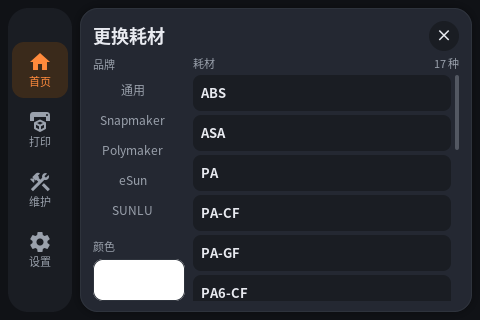
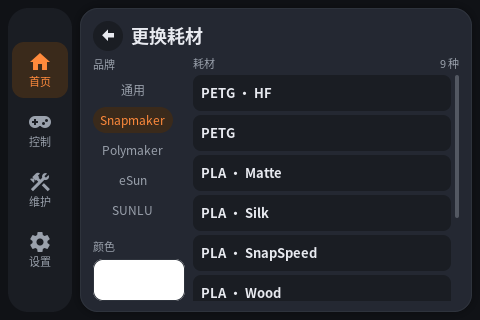
浮层关闭改成左上角返回箭头
- 喷嘴详情、耗材选择、调温、数字键盘、喷嘴参数、颜色、网络、Wi-Fi 密码、打印控制
  全部把右上角 X 换成左上角左箭头
- 返回按钮和标题同一行，保持原有点击区域
- 版本 1.6.4

diff --git a/src/ui.cpp b/src/ui.cpp
@@ -763,7 +763,7 @@ void temp_apply(int temp) {
 
 // 前置声明：这两个辅助函数在下面实现
 lv_obj_t* mk_overlay(lv_obj_t* screen);
-lv_obj_t* mk_close_button(lv_obj_t* parent, lv_event_cb_t cb);
+lv_obj_t* mk_back_button(lv_obj_t* parent, lv_event_cb_t cb);
 
 // 自定义快捷温度：所有喷嘴共用，持久化到工作目录下的 skreeu1_temps.cfg
 int g_presets[6] = {180, 200, 220, 240, 260, 280};
@@ -1211,10 +1211,9 @@ void build_temp_page(lv_obj_t* screen) {
     lv_obj_set_flex_flow(hl, LV_FLEX_FLOW_ROW);
     lv_obj_set_flex_align(hl, LV_FLEX_ALIGN_START, LV_FLEX_ALIGN_CENTER, LV_FLEX_ALIGN_CENTER);
     lv_obj_set_style_pad_column(hl, 8, 0);
+    mk_back_button(hl, close_temp_page_cb);
     R.tp_title = mk_label(hl, "T1 温度", 18, true, theme::TEXT);
-    mk_label(hl, "长按可编辑", 10, false, theme::MUTED);
-
-    mk_close_button(head, close_temp_page_cb);
+    mk_label(hl, "长按", 10, false, theme::MUTED);
 
     lv_obj_t* body = mk_obj(pg);
     lv_obj_set_size(body, LV_PCT(100), 148);
@@ -1325,10 +1324,11 @@ void build_keypad(lv_obj_t* screen) {
     lv_obj_t* head = mk_obj(kp);
     lv_obj_set_size(head, LV_PCT(100), 28);
     lv_obj_set_flex_flow(head, LV_FLEX_FLOW_ROW);
-    lv_obj_set_flex_align(head, LV_FLEX_ALIGN_SPACE_BETWEEN, LV_FLEX_ALIGN_CENTER,
+    lv_obj_set_flex_align(head, LV_FLEX_ALIGN_START, LV_FLEX_ALIGN_CENTER,
                           LV_FLEX_ALIGN_CENTER);
+    lv_obj_set_style_pad_column(head, 8, 0);
+    mk_back_button(head, keypad_close_cb);
     R.keypad_title = mk_label(head, "设置喷嘴温度", 18, true, theme::TEXT);
-    mk_close_button(head, keypad_close_cb);
 
     lv_obj_t* valrow = mk_obj(kp);
     lv_obj_set_size(valrow, LV_PCT(100), 40);
@@ -1442,10 +1442,11 @@ void build_nozzle_page(lv_obj_t* screen) {
     lv_obj_t* head = mk_obj(pg);
     lv_obj_set_size(head, LV_PCT(100), 26);
     lv_obj_set_flex_flow(head, LV_FLEX_FLOW_ROW);
-    lv_obj_set_flex_align(head, LV_FLEX_ALIGN_SPACE_BETWEEN, LV_FLEX_ALIGN_CENTER,
+    lv_obj_set_flex_align(head, LV_FLEX_ALIGN_START, LV_FLEX_ALIGN_CENTER,
                           LV_FLEX_ALIGN_CENTER);
+    lv_obj_set_style_pad_column(head, 8, 0);
+    mk_back_button(head, close_nozzle_cb);
     R.nz_title = mk_label(head, "T1 喷嘴", 18, true, theme::TEXT);
-    mk_close_button(head, close_nozzle_cb);
 
     // 直径
     mk_label(pg, "直径", 11, false, theme::MUTED);
@@ -1707,10 +1708,11 @@ void build_color_page(lv_obj_t* screen) {
     lv_obj_t* head = mk_obj(pg);
     lv_obj_set_size(head, LV_PCT(100), 26);
     lv_obj_set_flex_flow(head, LV_FLEX_FLOW_ROW);
-    lv_obj_set_flex_align(head, LV_FLEX_ALIGN_SPACE_BETWEEN, LV_FLEX_ALIGN_CENTER,
+    lv_obj_set_flex_align(head, LV_FLEX_ALIGN_START, LV_FLEX_ALIGN_CENTER,
                           LV_FLEX_ALIGN_CENTER);
+    lv_obj_set_style_pad_column(head, 8, 0);
+    mk_back_button(head, close_color_cb);
     mk_label(head, "选择颜色", 18, true, theme::TEXT);
-    mk_close_button(head, close_color_cb);
 
     lv_obj_t* grid = mk_obj(pg);
     lv_obj_set_size(grid, LV_PCT(100), 150);
@@ -1761,7 +1763,7 @@ lv_obj_t* mk_overlay(lv_obj_t* screen) {
     return o;
 }
 
-lv_obj_t* mk_close_button(lv_obj_t* parent, lv_event_cb_t cb) {
+lv_obj_t* mk_back_button(lv_obj_t* parent, lv_event_cb_t cb) {
     lv_obj_t* b = lv_button_create(parent);
     lv_obj_set_size(b, 30, 30);
     lv_obj_set_style_radius(b, 999, 0);
@@ -1770,7 +1772,7 @@ lv_obj_t* mk_close_button(lv_obj_t* parent, lv_event_cb_t cb) {
     lv_obj_set_style_border_width(b, 0, 0);
     lv_obj_set_style_shadow_width(b, 0, 0);
     lv_obj_set_style_pad_all(b, 0, 0);
-    lv_obj_t* ic = mk_icon(b, IC_CLOSE, 18, theme::TEXT);
+    lv_obj_t* ic = mk_icon(b, IC_ARROW_LEFT, 18, theme::TEXT);
     lv_obj_center(ic);
     lv_obj_add_event_cb(b, cb, LV_EVENT_CLICKED, nullptr);
     return b;
@@ -1791,6 +1793,7 @@ void build_tool_sheet(lv_obj_t* screen) {
     lv_obj_set_flex_flow(hl, LV_FLEX_FLOW_ROW);
     lv_obj_set_flex_align(hl, LV_FLEX_ALIGN_START, LV_FLEX_ALIGN_CENTER, LV_FLEX_ALIGN_CENTER);
     lv_obj_set_style_pad_column(hl, 8, 0);
+    mk_back_button(hl, close_sheet_cb);
     R.sheet_title = mk_label(hl, "T1 喷嘴", 20, true, theme::TEXT);
 
     lv_obj_t* hr = mk_obj(head);
@@ -1812,7 +1815,6 @@ void build_tool_sheet(lv_obj_t* screen) {
     mk_icon(R.sheet_nfc, IC_NFC, 13, theme::PRIMARY);
     mk_label(R.sheet_nfc, "NFC", 11, true, theme::PRIMARY);
     lv_obj_add_flag(R.sheet_nfc, LV_OBJ_FLAG_HIDDEN);
-    mk_close_button(hr, close_sheet_cb);
 
     // 主体：左耗材 / 右温度
     lv_obj_t* body = mk_obj(sh);
@@ -1957,10 +1959,11 @@ void build_picker(lv_obj_t* screen) {
     lv_obj_t* head = mk_obj(pk);
     lv_obj_set_size(head, LV_PCT(100), 30);
     lv_obj_set_flex_flow(head, LV_FLEX_FLOW_ROW);
-    lv_obj_set_flex_align(head, LV_FLEX_ALIGN_SPACE_BETWEEN, LV_FLEX_ALIGN_CENTER,
+    lv_obj_set_flex_align(head, LV_FLEX_ALIGN_START, LV_FLEX_ALIGN_CENTER,
                           LV_FLEX_ALIGN_CENTER);
+    lv_obj_set_style_pad_column(head, 8, 0);
+    mk_back_button(head, picker_back_cb);
     R.picker_title = mk_label(head, "更换耗材", 18, true, theme::TEXT);
-    mk_close_button(head, picker_back_cb);
 
     lv_obj_t* body = mk_obj(pk);
     lv_obj_set_size(body, LV_PCT(100), 244);
@@ -2336,12 +2339,13 @@ void build_print_sheet(lv_obj_t* screen) {
     lv_obj_t* head = mk_obj(sh);
     lv_obj_set_size(head, LV_PCT(100), 30);
     lv_obj_set_flex_flow(head, LV_FLEX_FLOW_ROW);
-    lv_obj_set_flex_align(head, LV_FLEX_ALIGN_SPACE_BETWEEN, LV_FLEX_ALIGN_CENTER,
+    lv_obj_set_flex_align(head, LV_FLEX_ALIGN_START, LV_FLEX_ALIGN_CENTER,
                           LV_FLEX_ALIGN_CENTER);
-    mk_label(head, "打印控制", 20, true, theme::TEXT);
-    mk_close_button(head, [](lv_event_t*) {
+    lv_obj_set_style_pad_column(head, 8, 0);
+    mk_back_button(head, [](lv_event_t*) {
         if (R.print_sheet) lv_obj_add_flag(R.print_sheet, LV_OBJ_FLAG_HIDDEN);
     });
+    mk_label(head, "打印控制", 20, true, theme::TEXT);
 
     lv_obj_t* body = mk_obj(sh);
     lv_obj_set_width(body, LV_PCT(100));
@@ -2989,7 +2993,7 @@ void build_settings(lv_obj_t* p) {
     lv_obj_align(R.dev_nozzle, LV_ALIGN_TOP_LEFT, 0, 46);
     R.gui_line = mk_label(c2, "原厂 GUI 偏好 · 自动映射 —", 11, false, theme::MUTED);
     lv_obj_align(R.gui_line, LV_ALIGN_TOP_LEFT, 0, 68);
-    lv_obj_t* ver = mk_label(c2, "skreeu1 1.6.3 · LVGL + FreeType · 480×320", 11, false, 0x5A616B);
+    lv_obj_t* ver = mk_label(c2, "skreeu1 1.6.4 · LVGL + FreeType · 480×320", 11, false, 0x5A616B);
     lv_obj_align(ver, LV_ALIGN_BOTTOM_LEFT, 0, 0);
 
     // 打印偏好（Klipper print_task_config）
@@ -3303,8 +3307,8 @@ void build_net_page(lv_obj_t* screen) {
     lv_obj_set_flex_flow(hl, LV_FLEX_FLOW_ROW);
     lv_obj_set_flex_align(hl, LV_FLEX_ALIGN_START, LV_FLEX_ALIGN_CENTER, LV_FLEX_ALIGN_CENTER);
     lv_obj_set_style_pad_column(hl, 8, 0);
+    mk_back_button(hl, net_close_cb);
     mk_label(hl, "网络", 20, true, theme::TEXT);
-    mk_close_button(head, net_close_cb);
 
     lv_obj_t* sc = mk_card(pg, theme::SURFACE);
     lv_obj_set_size(sc, LV_PCT(100), 58);
@@ -3341,10 +3345,11 @@ void build_net_page(lv_obj_t* screen) {
     lv_obj_t* ph = mk_obj(pw);
     lv_obj_set_size(ph, LV_PCT(100), 28);
     lv_obj_set_flex_flow(ph, LV_FLEX_FLOW_ROW);
-    lv_obj_set_flex_align(ph, LV_FLEX_ALIGN_SPACE_BETWEEN, LV_FLEX_ALIGN_CENTER,
+    lv_obj_set_flex_align(ph, LV_FLEX_ALIGN_START, LV_FLEX_ALIGN_CENTER,
                           LV_FLEX_ALIGN_CENTER);
+    lv_obj_set_style_pad_column(ph, 8, 0);
+    mk_back_button(ph, net_pw_close_cb);
     R.net_pw_title = mk_label(ph, "Wi-Fi 密码", 17, true, theme::TEXT);
-    mk_close_button(ph, net_pw_close_cb);
 
     lv_obj_t* ta = lv_textarea_create(pw);
     lv_obj_set_size(ta, LV_PCT(100), 38);
